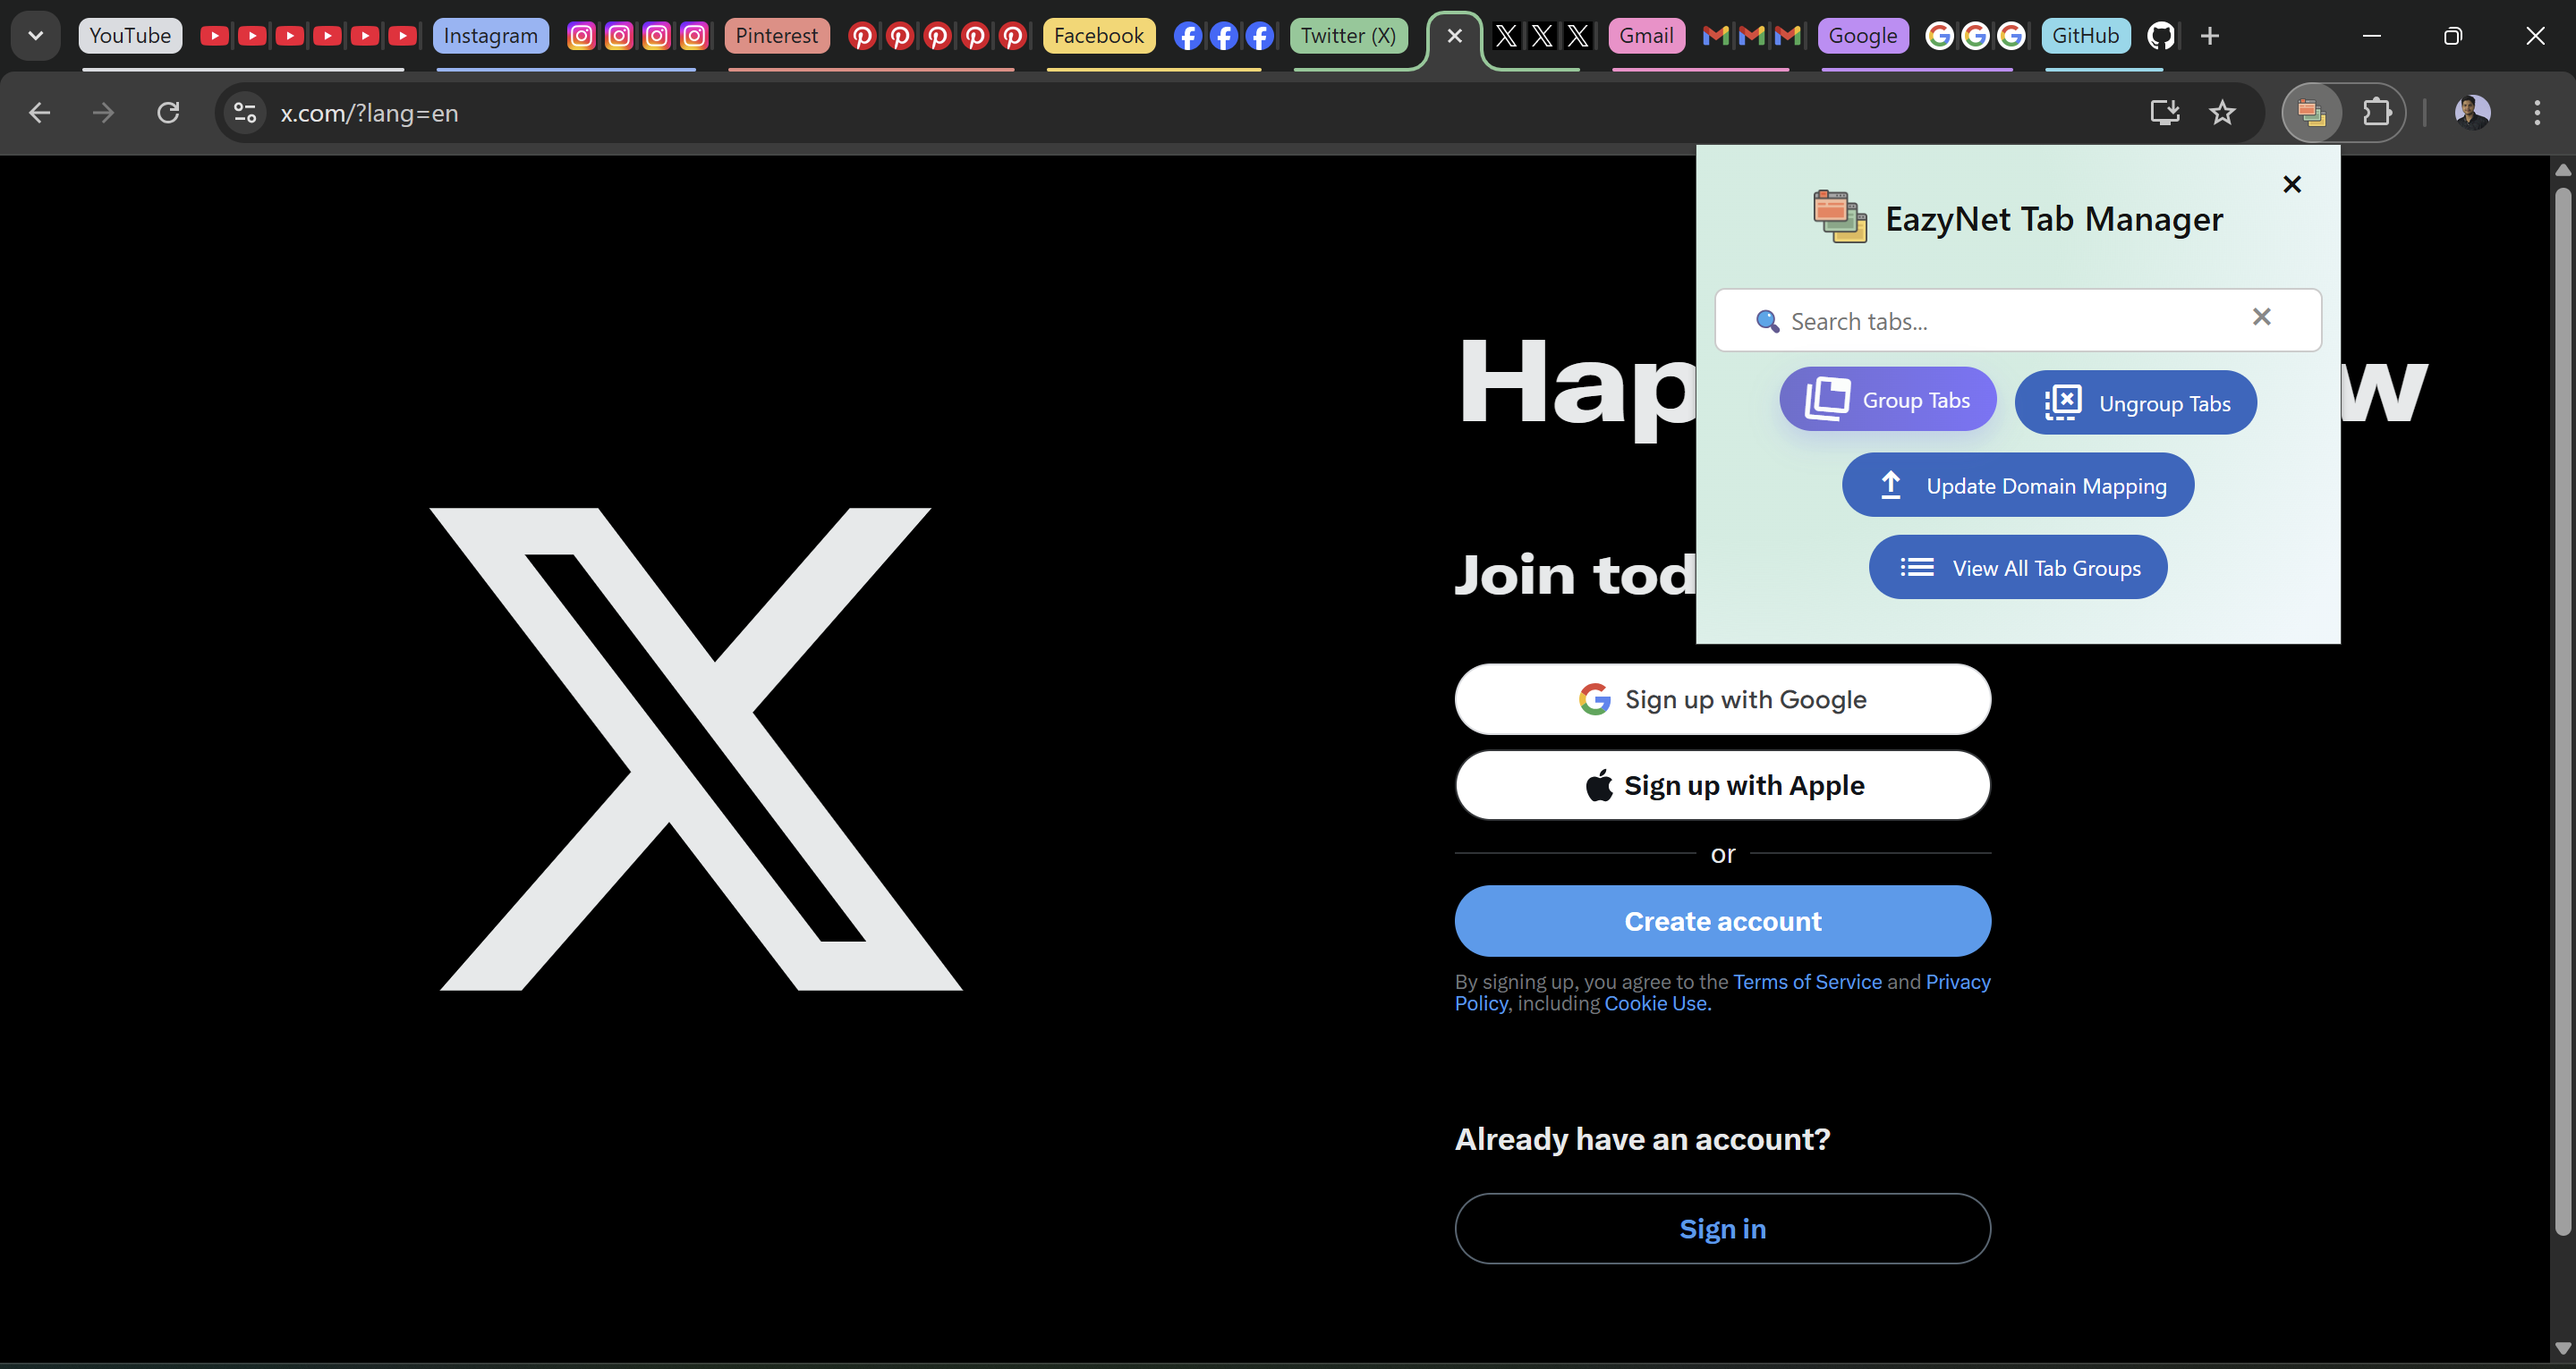
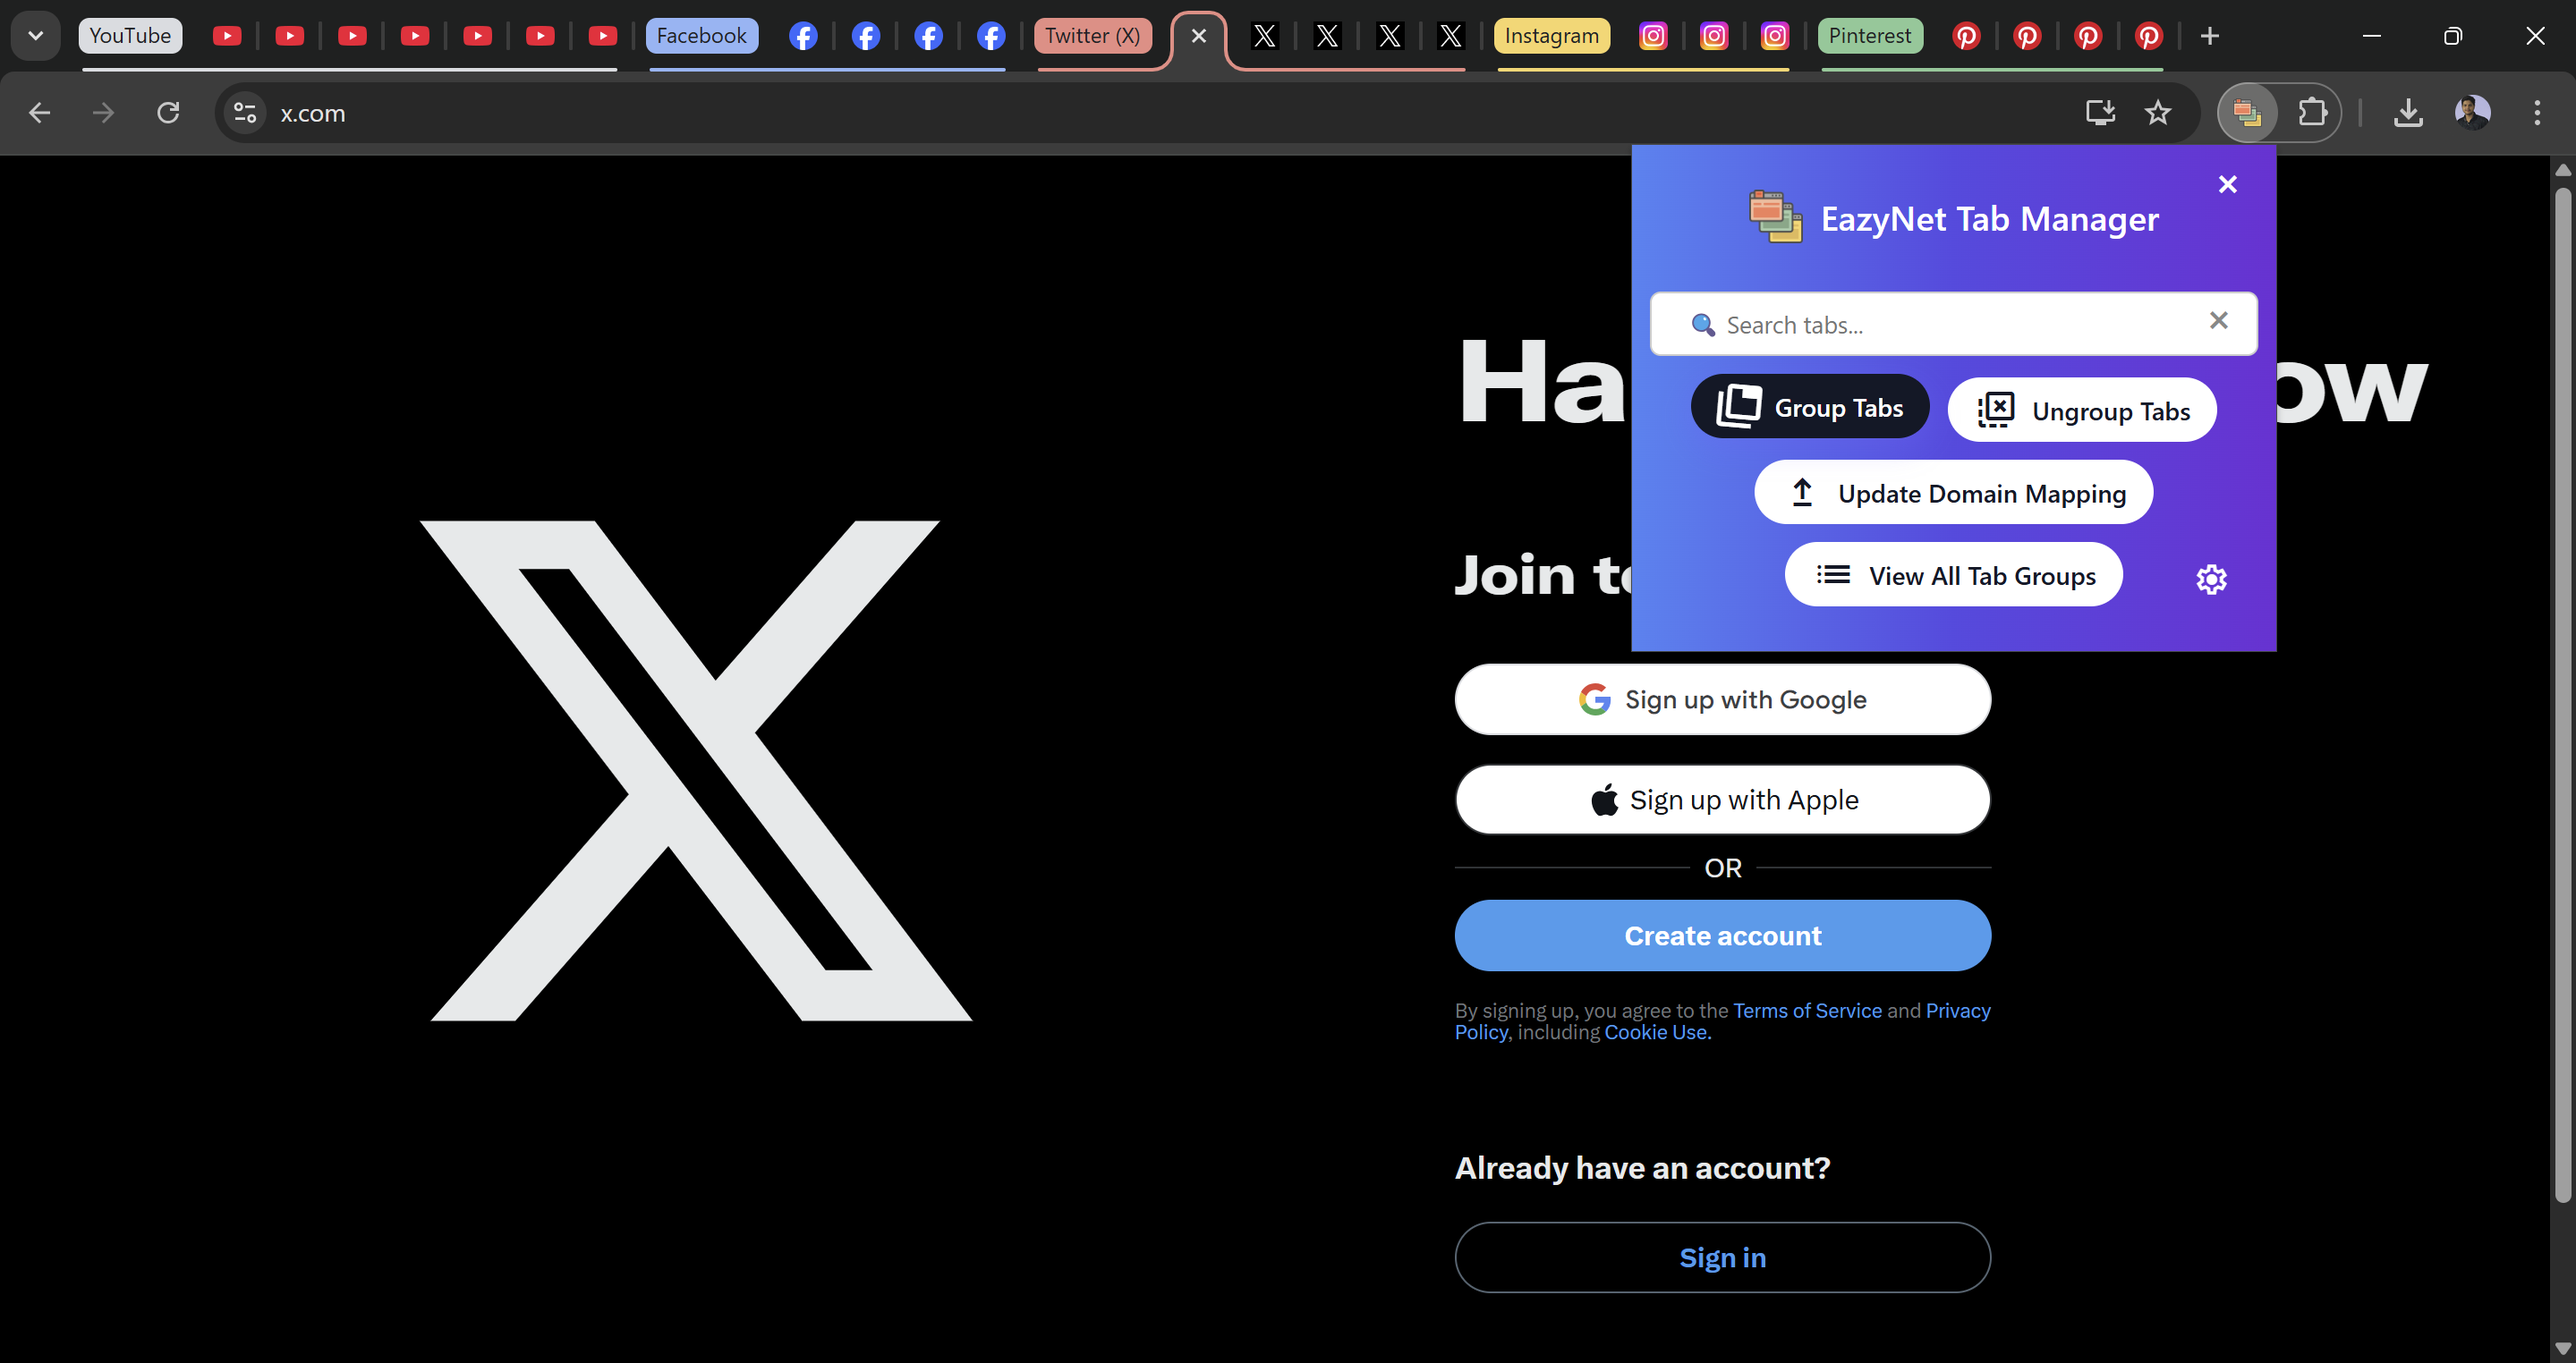
Updated the colors and images

diff --git a/index.html b/index.html
@@ -57,9 +57,9 @@
     </section>
 
   <!-- Solution Section -->
-  <section id="solution" class="py-20 px-6 bg-slate-50 text-center bg-gradient-to-r from-blue-500 via-indigo-600 to-purple-700">
-    <h2 class="text-3xl text-white font-bold mb-4" data-aos="fade-up">EazyNet Makes Tab Chaos a Thing of the Past</h2>
-    <p class="text-lg text-gray-200 max-w-2xl mx-auto mb-10" data-aos="fade-up" data-aos-delay="200">Group. Search. Switch. All in one elegant interface.</p>
+  <section id="solution" class="text-center py-24 px-6 bg-gray-50 relative">
+    <h2 class="text-5xl font-bold mb-4" data-aos="fade-up">EazyNet Makes Tab Chaos a Thing of the Past</h2>
+    <p class="ext-lg text-gray-600 mb-8 max-w-2xl mx-auto" data-aos="fade-up" data-aos-delay="200">Group. Search. Switch. All in one elegant interface.</p>
 
     <div class="flex justify-center gap-8">
       <!-- Screenshot 1 -->

diff --git a/output.css b/output.css
@@ -139,7 +139,6 @@
   }
   img, svg, video, canvas, audio, iframe, embed, object {
     display: block;
-    vertical-align: middle;
   }
   img, video {
     max-width: 100%;
